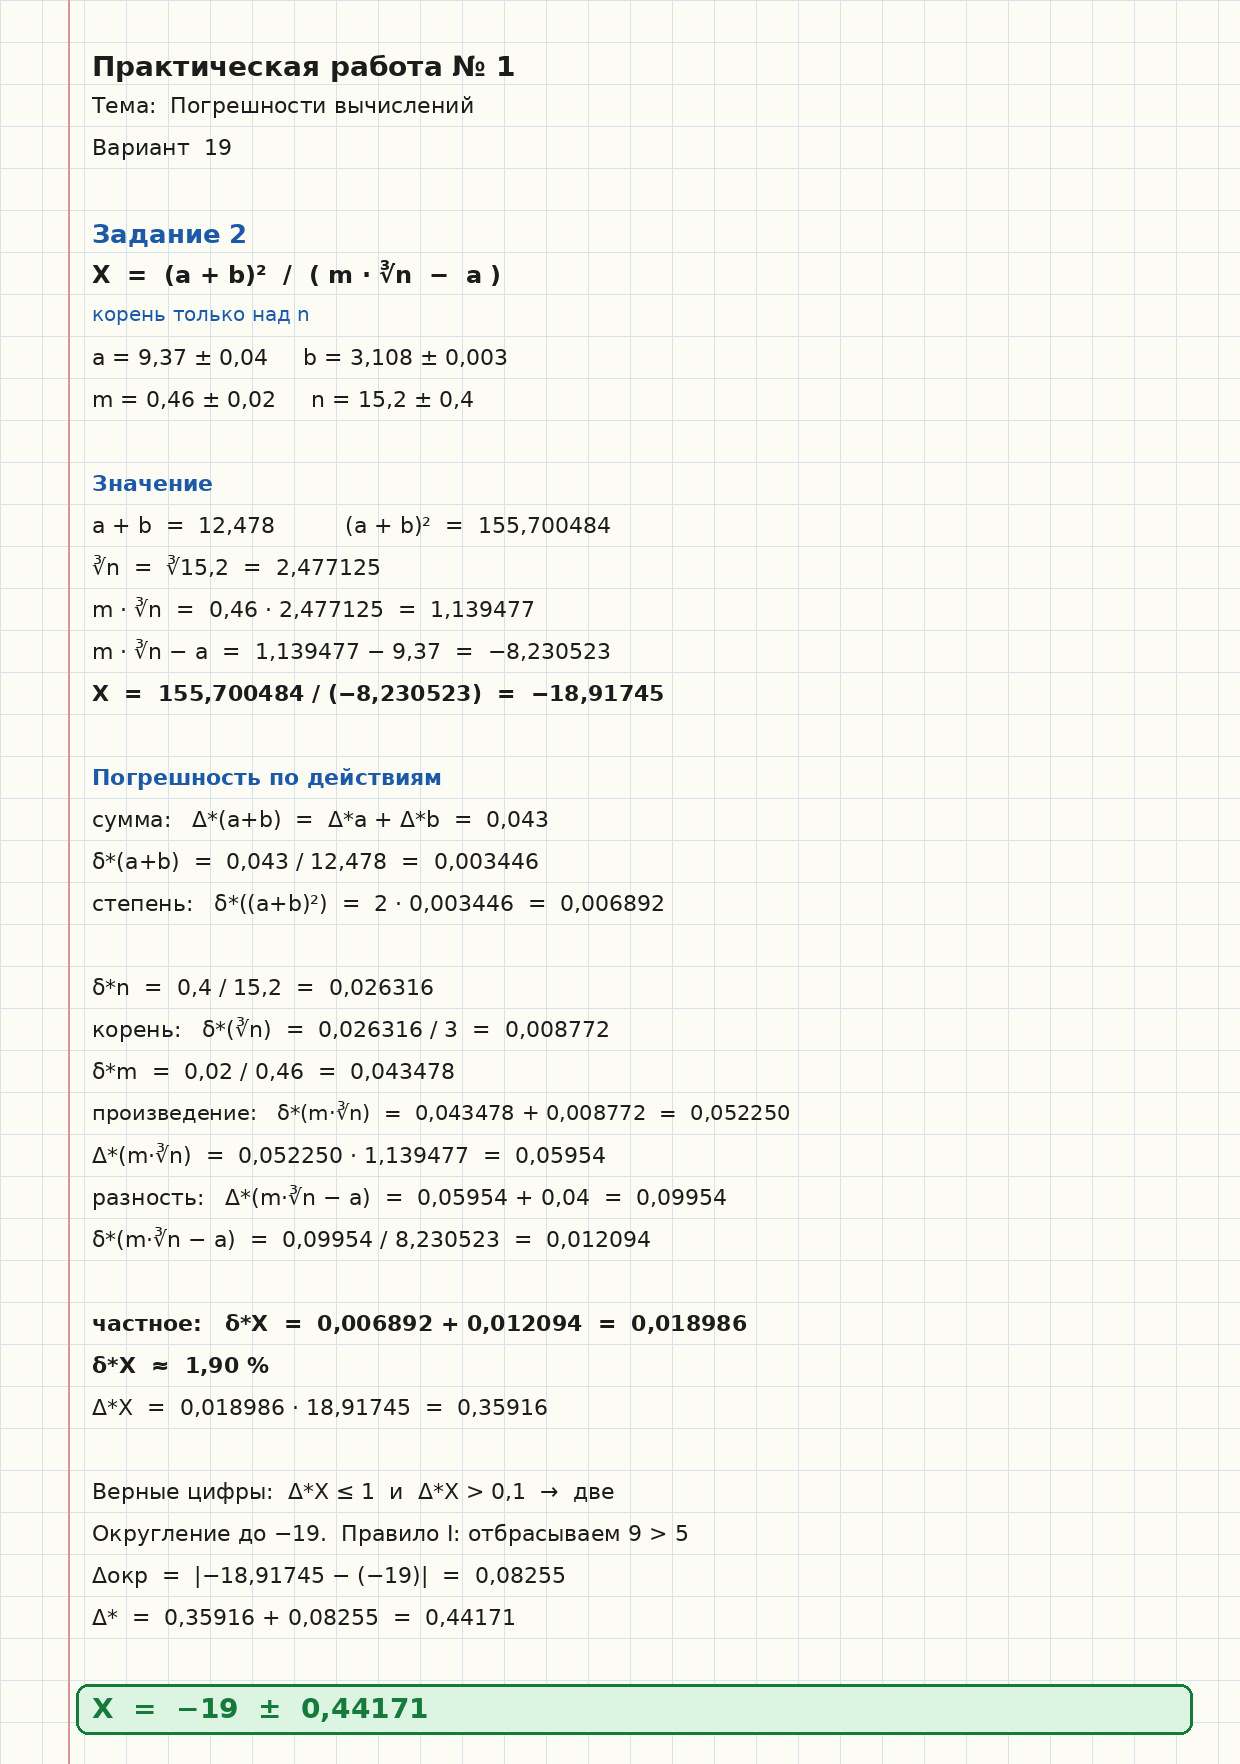
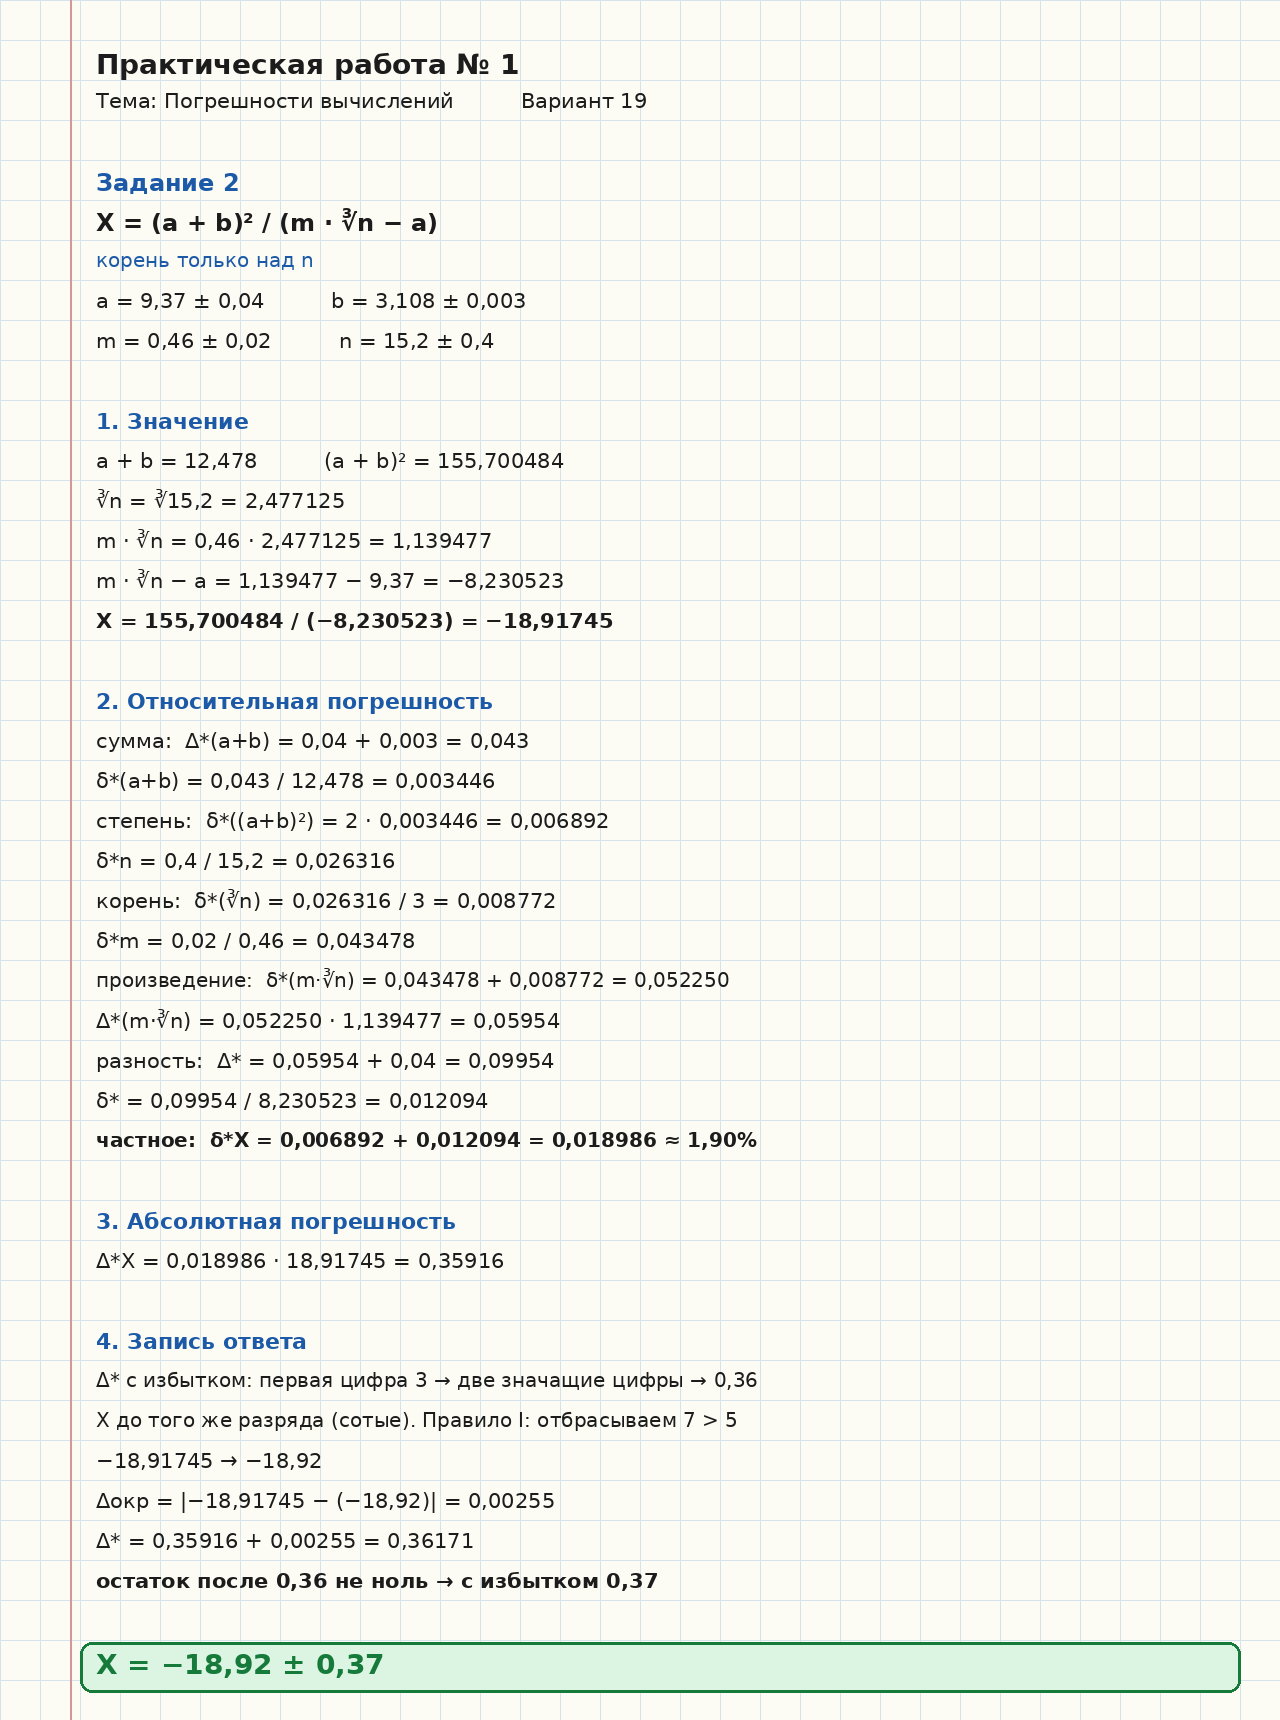
Write practical 1 as a full notebook with rounded ± answers.
Round the absolute error up to one or two significant digits, then round X to that same decimal place.

diff --git a/ucheba/praktiki_v19/render_pr1_tetrad.py b/ucheba/praktiki_v19/render_pr1_tetrad.py
@@ -1,5 +1,5 @@
 #!/usr/bin/env python3
-"""Практическая 1, вариант 19 — по методичкам: действия и верные цифры."""
+"""Практическая 1, вариант 19 — лист, который переписывают в тетрадь."""
 
 from pathlib import Path
 
@@ -15,9 +15,9 @@ MARGIN = (214, 150, 150)
 INK = (28, 28, 28)
 GREEN = (22, 122, 58)
 BLUE = (28, 90, 168)
-W = 1240
-STEP = 42
-LEFT = 92
+W = 1280
+STEP = 40
+LEFT = 96
 
 
 def F(sz, bold=False):
@@ -32,107 +32,109 @@ def notebook(rows):
         d.line([(x, 0), (x, h)], fill=GRID, width=1)
     for y in range(0, h, STEP):
         d.line([(0, y), (W, y)], fill=GRID, width=1)
-    d.line([(68, 0), (68, h)], fill=MARGIN, width=2)
+    d.line([(70, 0), (70, h)], fill=MARGIN, width=2)
     return im, d
 
 
-def write(d, row, s, sz=22, fill=INK, bold=False):
+def write(d, row, s, sz=21, fill=INK, bold=False):
     d.text((LEFT, row * STEP + 8), s, font=F(sz, bold), fill=fill)
 
 
 def answer(d, row, s):
-    y = row * STEP + 4
+    y = row * STEP + 2
     d.rounded_rectangle(
-        [LEFT - 16, y, W - 48, y + STEP + 8],
+        [LEFT - 16, y, W - 40, y + STEP + 10],
         radius=12,
         fill=(220, 245, 226),
         outline=GREEN,
         width=3,
     )
-    d.text((LEFT, y + 8), s, font=F(28, True), fill=GREEN)
+    d.text((LEFT, y + 6), s, font=F(28, True), fill=GREEN)
 
 
 def sheet_z1():
-    im, d = notebook(40)
+    im, d = notebook(42)
     write(d, 1, "Практическая работа № 1", 28, bold=True)
-    write(d, 2, "Тема:  Погрешности вычислений", 22)
-    write(d, 3, "Вариант  19", 22)
+    write(d, 2, "Тема: Погрешности вычислений          Вариант 19", 21)
 
-    write(d, 5, "Задание 1", 26, BLUE, True)
-    write(d, 6, "X  =  √( c · d  /  b )", 26, bold=True)
-    write(d, 8, "b  =  1,84  ±  0,06", 22)
-    write(d, 9, "c  =  0,8345  ±  0,0004", 22)
-    write(d, 10, "d  =  13,8  ±  0,3", 22)
+    write(d, 4, "Задание 1", 24, BLUE, True)
+    write(d, 5, "X = √(c · d / b)", 24, bold=True)
+    write(d, 6, "b = 1,84 ± 0,06", 21)
+    write(d, 7, "c = 0,8345 ± 0,0004", 21)
+    write(d, 8, "d = 13,8 ± 0,3", 21)
 
-    write(d, 12, "Значение", 22, BLUE, True)
-    write(d, 13, "c · d  =  0,8345 · 13,8  =  11,5161", 22)
-    write(d, 14, "c · d / b  =  11,5161 / 1,84  =  6,25875", 22)
-    write(d, 15, "X  =  √6,25875  =  2,501749", 22, bold=True)
+    write(d, 10, "1. Значение", 22, BLUE, True)
+    write(d, 11, "c · d = 0,8345 · 13,8 = 11,5161", 21)
+    write(d, 12, "c · d / b = 11,5161 / 1,84 = 6,25875", 21)
+    write(d, 13, "X = √6,25875 = 2,501749", 21, bold=True)
 
-    write(d, 17, "Погрешность по действиям", 22, BLUE, True)
-    write(d, 18, "произведение:   δ*(c·d)  =  δ*c + δ*d", 22)
-    write(d, 19, "частное:   δ*(c·d / b)  =  δ*c + δ*d + δ*b", 22)
-    write(d, 20, "корень:   δ*X  =  (1/2) · (δ*c + δ*d + δ*b)", 22, bold=True)
+    write(d, 15, "2. Относительная погрешность", 22, BLUE, True)
+    write(d, 16, "произведение:  δ*(c·d) = δ*c + δ*d", 21)
+    write(d, 17, "частное:  δ*(c·d / b) = δ*c + δ*d + δ*b", 21)
+    write(d, 18, "корень:  δ*X = (1/2) · (δ*c + δ*d + δ*b)", 21, bold=True)
+    write(d, 19, "δ*c = 0,0004 / 0,8345 = 0,000479", 21)
+    write(d, 20, "δ*d = 0,3 / 13,8 = 0,021739", 21)
+    write(d, 21, "δ*b = 0,06 / 1,84 = 0,032609", 21)
+    write(d, 22, "сумма = 0,054827", 21)
+    write(d, 23, "δ*X = 0,054827 / 2 = 0,027414 ≈ 2,74%", 21, bold=True)
 
-    write(d, 22, "δ*c  =  0,0004 / 0,8345  =  0,000479", 22)
-    write(d, 23, "δ*d  =  0,3 / 13,8  =  0,021739", 22)
-    write(d, 24, "δ*b  =  0,06 / 1,84  =  0,032609", 22)
-    write(d, 25, "сумма  =  0,054827", 22)
-    write(d, 26, "δ*X  =  0,054827 / 2  =  0,027414", 22, bold=True)
-    write(d, 27, "δ*X  ≈  2,74 %", 22, bold=True)
-    write(d, 29, "Δ*X  =  δ*X · |X|  =  0,027414 · 2,501749  =  0,06858", 22)
+    write(d, 25, "3. Абсолютная погрешность", 22, BLUE, True)
+    write(d, 26, "Δ*X = δ*X · |X| = 0,027414 · 2,501749 = 0,06858", 21)
 
-    write(d, 31, "Верные цифры:  Δ*X ≤ 0,1  и  Δ*X > 0,01  →  две", 22)
-    write(d, 32, "Округление до 2,5.  Правило II: отбрасываем 0 < 5", 22)
-    write(d, 33, "Δокр  =  |2,501749 − 2,5|  =  0,00175", 22)
-    write(d, 34, "Δ*  =  Δ*X + Δокр  =  0,06858 + 0,00175  =  0,07033", 22)
-    answer(d, 36, "X  =  2,5  ±  0,07033")
+    write(d, 28, "4. Запись ответа", 22, BLUE, True)
+    write(d, 29, "Δ* с избытком: первая цифра 6 → одна значащая цифра → 0,07", 20)
+    write(d, 30, "X до того же разряда (сотые). Правило II: отбрасываем 1 < 5", 20)
+    write(d, 31, "2,501749 → 2,50", 21)
+    write(d, 32, "Δокр = |2,501749 − 2,50| = 0,00175", 21)
+    write(d, 33, "Δ* = 0,06858 + 0,00175 = 0,07033", 21)
+    write(d, 34, "0,07033 > 0,07, одна цифра с избытком → 0,08", 21, bold=True)
+    answer(d, 36, "X = 2,50 ± 0,08")
     return im.crop((0, 0, W, 38 * STEP))
 
 
 def sheet_z2():
-    im, d = notebook(52)
+    im, d = notebook(50)
     write(d, 1, "Практическая работа № 1", 28, bold=True)
-    write(d, 2, "Тема:  Погрешности вычислений", 22)
-    write(d, 3, "Вариант  19", 22)
+    write(d, 2, "Тема: Погрешности вычислений          Вариант 19", 21)
 
-    write(d, 5, "Задание 2", 26, BLUE, True)
-    write(d, 6, "X  =  (a + b)²  /  ( m · ∛n  −  a )", 24, bold=True)
-    write(d, 7, "корень только над n", 20, BLUE)
+    write(d, 4, "Задание 2", 24, BLUE, True)
+    write(d, 5, "X = (a + b)² / (m · ∛n − a)", 24, bold=True)
+    write(d, 6, "корень только над n", 20, BLUE)
+    write(d, 7, "a = 9,37 ± 0,04          b = 3,108 ± 0,003", 21)
+    write(d, 8, "m = 0,46 ± 0,02          n = 15,2 ± 0,4", 21)
 
-    write(d, 8, "a = 9,37 ± 0,04     b = 3,108 ± 0,003", 22)
-    write(d, 9, "m = 0,46 ± 0,02     n = 15,2 ± 0,4", 22)
+    write(d, 10, "1. Значение", 22, BLUE, True)
+    write(d, 11, "a + b = 12,478          (a + b)² = 155,700484", 21)
+    write(d, 12, "∛n = ∛15,2 = 2,477125", 21)
+    write(d, 13, "m · ∛n = 0,46 · 2,477125 = 1,139477", 21)
+    write(d, 14, "m · ∛n − a = 1,139477 − 9,37 = −8,230523", 21)
+    write(d, 15, "X = 155,700484 / (−8,230523) = −18,91745", 21, bold=True)
 
-    write(d, 11, "Значение", 22, BLUE, True)
-    write(d, 12, "a + b  =  12,478          (a + b)²  =  155,700484", 22)
-    write(d, 13, "∛n  =  ∛15,2  =  2,477125", 22)
-    write(d, 14, "m · ∛n  =  0,46 · 2,477125  =  1,139477", 22)
-    write(d, 15, "m · ∛n − a  =  1,139477 − 9,37  =  −8,230523", 22)
-    write(d, 16, "X  =  155,700484 / (−8,230523)  =  −18,91745", 22, bold=True)
+    write(d, 17, "2. Относительная погрешность", 22, BLUE, True)
+    write(d, 18, "сумма:  Δ*(a+b) = 0,04 + 0,003 = 0,043", 21)
+    write(d, 19, "δ*(a+b) = 0,043 / 12,478 = 0,003446", 21)
+    write(d, 20, "степень:  δ*((a+b)²) = 2 · 0,003446 = 0,006892", 21)
+    write(d, 21, "δ*n = 0,4 / 15,2 = 0,026316", 21)
+    write(d, 22, "корень:  δ*(∛n) = 0,026316 / 3 = 0,008772", 21)
+    write(d, 23, "δ*m = 0,02 / 0,46 = 0,043478", 21)
+    write(d, 24, "произведение:  δ*(m·∛n) = 0,043478 + 0,008772 = 0,052250", 20)
+    write(d, 25, "Δ*(m·∛n) = 0,052250 · 1,139477 = 0,05954", 21)
+    write(d, 26, "разность:  Δ* = 0,05954 + 0,04 = 0,09954", 21)
+    write(d, 27, "δ* = 0,09954 / 8,230523 = 0,012094", 21)
+    write(d, 28, "частное:  δ*X = 0,006892 + 0,012094 = 0,018986 ≈ 1,90%", 20, bold=True)
 
-    write(d, 18, "Погрешность по действиям", 22, BLUE, True)
-    write(d, 19, "сумма:   Δ*(a+b)  =  Δ*a + Δ*b  =  0,043", 22)
-    write(d, 20, "δ*(a+b)  =  0,043 / 12,478  =  0,003446", 22)
-    write(d, 21, "степень:   δ*((a+b)²)  =  2 · 0,003446  =  0,006892", 22)
+    write(d, 30, "3. Абсолютная погрешность", 22, BLUE, True)
+    write(d, 31, "Δ*X = 0,018986 · 18,91745 = 0,35916", 21)
 
-    write(d, 23, "δ*n  =  0,4 / 15,2  =  0,026316", 22)
-    write(d, 24, "корень:   δ*(∛n)  =  0,026316 / 3  =  0,008772", 22)
-    write(d, 25, "δ*m  =  0,02 / 0,46  =  0,043478", 22)
-    write(d, 26, "произведение:   δ*(m·∛n)  =  0,043478 + 0,008772  =  0,052250", 21)
-    write(d, 27, "Δ*(m·∛n)  =  0,052250 · 1,139477  =  0,05954", 22)
-    write(d, 28, "разность:   Δ*(m·∛n − a)  =  0,05954 + 0,04  =  0,09954", 22)
-    write(d, 29, "δ*(m·∛n − a)  =  0,09954 / 8,230523  =  0,012094", 22)
-
-    write(d, 31, "частное:   δ*X  =  0,006892 + 0,012094  =  0,018986", 22, bold=True)
-    write(d, 32, "δ*X  ≈  1,90 %", 22, bold=True)
-    write(d, 33, "Δ*X  =  0,018986 · 18,91745  =  0,35916", 22)
-
-    write(d, 35, "Верные цифры:  Δ*X ≤ 1  и  Δ*X > 0,1  →  две", 22)
-    write(d, 36, "Округление до −19.  Правило I: отбрасываем 9 > 5", 22)
-    write(d, 37, "Δокр  =  |−18,91745 − (−19)|  =  0,08255", 22)
-    write(d, 38, "Δ*  =  0,35916 + 0,08255  =  0,44171", 22)
-    answer(d, 40, "X  =  −19  ±  0,44171")
-    return im.crop((0, 0, W, 42 * STEP))
+    write(d, 33, "4. Запись ответа", 22, BLUE, True)
+    write(d, 34, "Δ* с избытком: первая цифра 3 → две значащие цифры → 0,36", 20)
+    write(d, 35, "X до того же разряда (сотые). Правило I: отбрасываем 7 > 5", 20)
+    write(d, 36, "−18,91745 → −18,92", 21)
+    write(d, 37, "Δокр = |−18,91745 − (−18,92)| = 0,00255", 21)
+    write(d, 38, "Δ* = 0,35916 + 0,00255 = 0,36171", 21)
+    write(d, 39, "остаток после 0,36 не ноль → с избытком 0,37", 21, bold=True)
+    answer(d, 41, "X = −18,92 ± 0,37")
+    return im.crop((0, 0, W, 43 * STEP))
 
 
 def main():

diff --git a/ucheba/praktiki_v19/render_paint.py b/ucheba/praktiki_v19/render_paint.py
@@ -126,7 +126,7 @@ def sheet_pr1():
     txt(d, (40, 306), "ΔX = 0,06858 + Δокр 0,00175 = 0,07033", 24)
     d.rounded_rectangle([40, 370, 1160, 580], radius=16, fill=PAPER_G, outline=GREEN, width=4)
     txt(d, (60, 400), "ответ", 24, GREEN, True)
-    txt(d, (60, 460), "X = 2,5  ±  0,07033", 36, GREEN, True)
+    txt(d, (60, 460), "X = 2,50  ±  0,08", 40, GREEN, True)
     parts.append(im)
 
     im = new_im(600)
@@ -141,7 +141,7 @@ def sheet_pr1():
     txt(d, (40, 302), "ΔX = 0,35916 + Δокр 0,08255 = 0,44171", 22)
     d.rounded_rectangle([40, 370, 1160, 560], radius=16, fill=PAPER_G, outline=GREEN, width=4)
     txt(d, (60, 400), "ответ   (корень только от n, a снаружи)", 24, GREEN, True)
-    txt(d, (60, 470), "X = −19  ±  0,44171", 36, GREEN, True)
+    txt(d, (60, 470), "X = −18,92  ±  0,37", 36, GREEN, True)
     parts.append(im)
     return stack(parts)
 

diff --git a/ucheba/praktiki_v19/VARIANT_19.md b/ucheba/praktiki_v19/VARIANT_19.md
@@ -41,7 +41,9 @@ X=\sqrt{\frac{0{,}8345\cdot 13{,}8}{1{,}84}}=\sqrt{6{,}25875}=2{,}501749.
 Две верные значащие цифры (\(\Delta X\le 0{,}1\)). Округление до \(2{,}5\) по правилу II.  
 \(\Delta_{\text{окр}}=0{,}00175\), \(\Delta^*=0{,}06858+0{,}00175=0{,}07033\).
 
-**Ответ:** \(X=2{,}5\pm 0{,}07033\).
+Запись: первая цифра \(\Delta^*=6\) — одна значащая цифра с избытком. После округления \(X\) до сотых \(\Delta^*=0{,}07033\), с избытком \(0{,}08\).
+
+**Ответ:** \(X=2{,}50\pm 0{,}08\).
 
 ---
 
@@ -91,7 +93,9 @@ X=\frac{155{,}700484}{-8{,}230523}=-18{,}91745.
 Две верные значащие цифры (\(\Delta X\le 1\)). Округление до \(-19\) по правилу I.  
 \(\Delta_{\text{окр}}=0{,}08255\), \(\Delta^*=0{,}35916+0{,}08255=0{,}44171\).
 
-**Ответ:** \(X=-19\pm 0{,}44171\).
+Запись: первая цифра \(\Delta^*=3\) — две значащие цифры с избытком. После округления \(X\) до сотых \(\Delta^*=0{,}36171\), с избытком \(0{,}37\).
+
+**Ответ:** \(X=-18{,}92\pm 0{,}37\).
 
 ---
 
@@ -290,8 +294,8 @@ I=\frac{0{,}05}{3}\cdot 24{,}476159=0{,}407936.
 
 | Работа | Задание | Ответ |
 |--------|---------|--------|
-| 1 | 1 | \(X=2{,}5\pm 0{,}07033\) |
-| 1 | 2 | \(X=-19\pm 0{,}44171\) |
+| 1 | 1 | \(X=2{,}50\pm 0{,}08\) |
+| 1 | 2 | \(X=-18{,}92\pm 0{,}37\) |
 | 2 | 1 | \(\xi_1=-1{,}046\); \(\xi_{2,3}=0{,}773\pm 1{,}330 i\) |
 | 2 | 2 | \(\xi=1{,}1098\) |
 | 5 | 1 | \(I\approx 0{,}23756\) |
